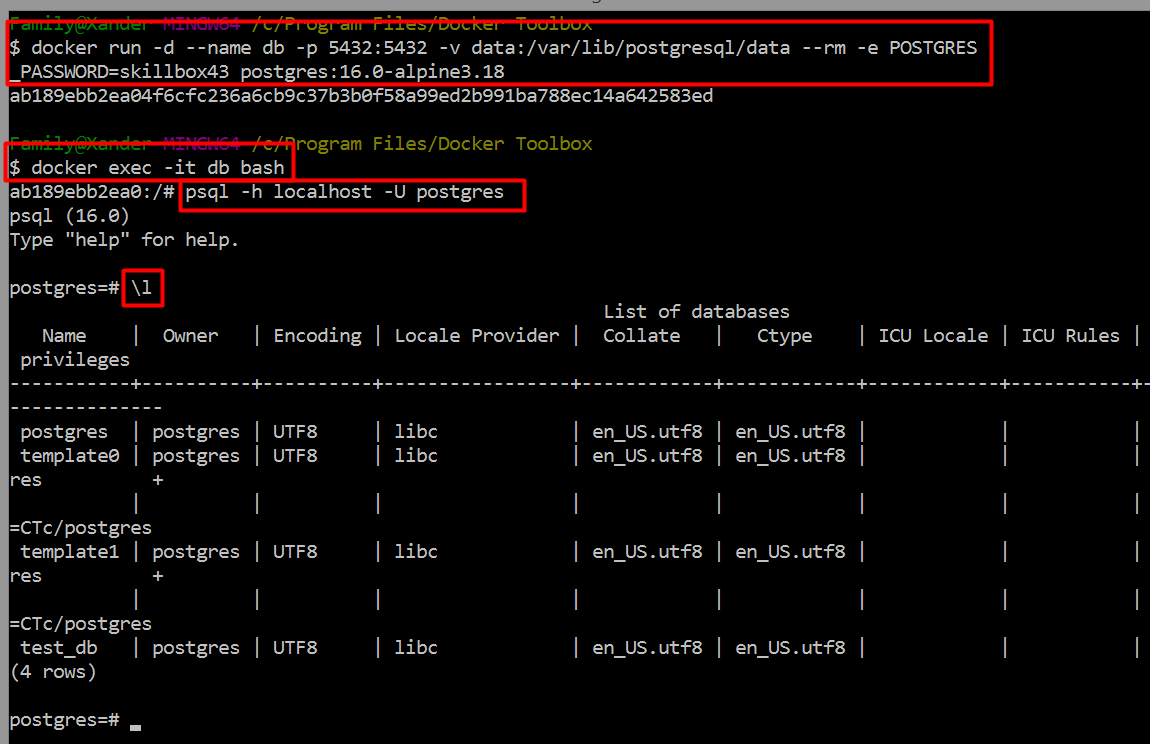
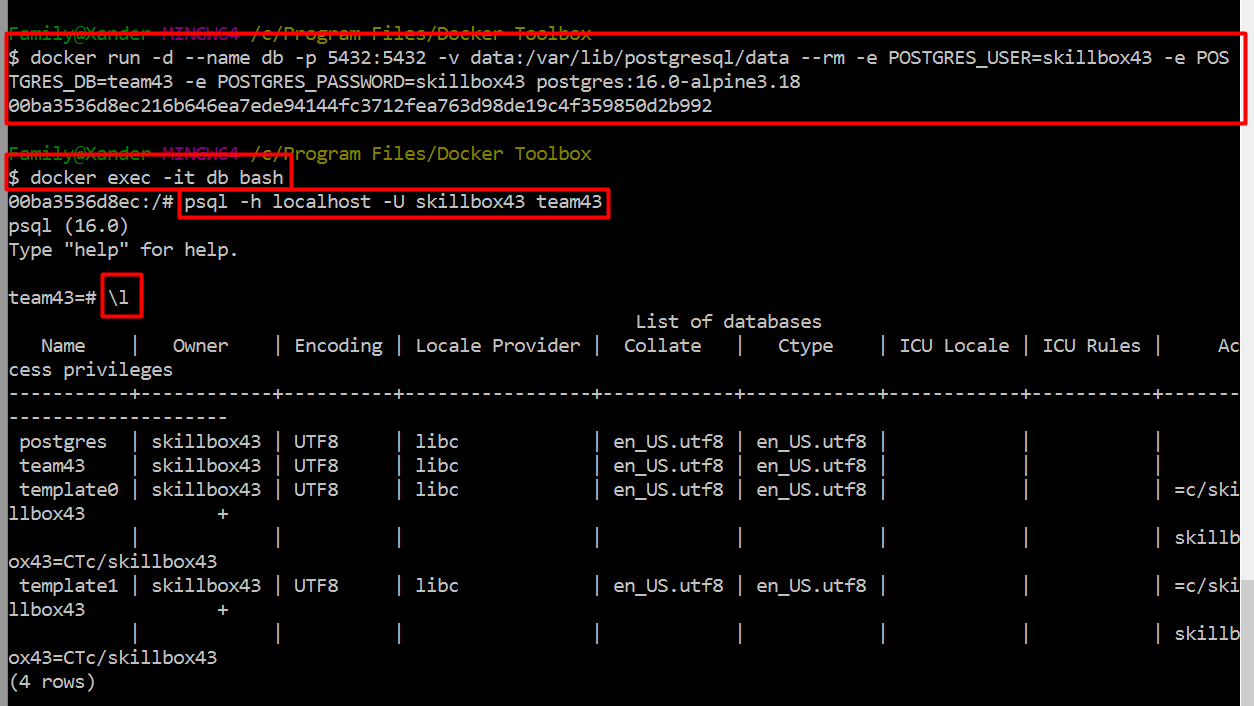
Resolve "Хранилище данных - миграции"

diff --git a/.localdev/db_container_creation.md b/.localdev/db_container_creation.md
@@ -2,7 +2,7 @@
 
 После установки приложения Docker в командной строке ввести команду для запуска контейнера с PostgreSQL (образ при необходимости загрузится автоматически) :  
 
-    docker run -d --name db -p 5432:5432 -v data:/var/lib/postgresql/data --rm -e POSTGRES_PASSWORD=skillbox43 postgres:16.0-alpine3.18
+    docker run -d --name db -p 5432:5432 -v data:/var/lib/postgresql/data --rm -e POSTGRES_USER=skillbox43 -e POSTGRES_DB=team43 -e POSTGRES_PASSWORD=skillbox43 postgres:16.0-alpine3.18
 
 где
 
@@ -17,7 +17,7 @@
 
    - переход в консоль PostgreSQL:
   
-    psql -h localhost -U postgres  
+    psql -h localhost -U skillbox43 team43
 
 Далее можно выполнять команды PostgreSQL.  
 
